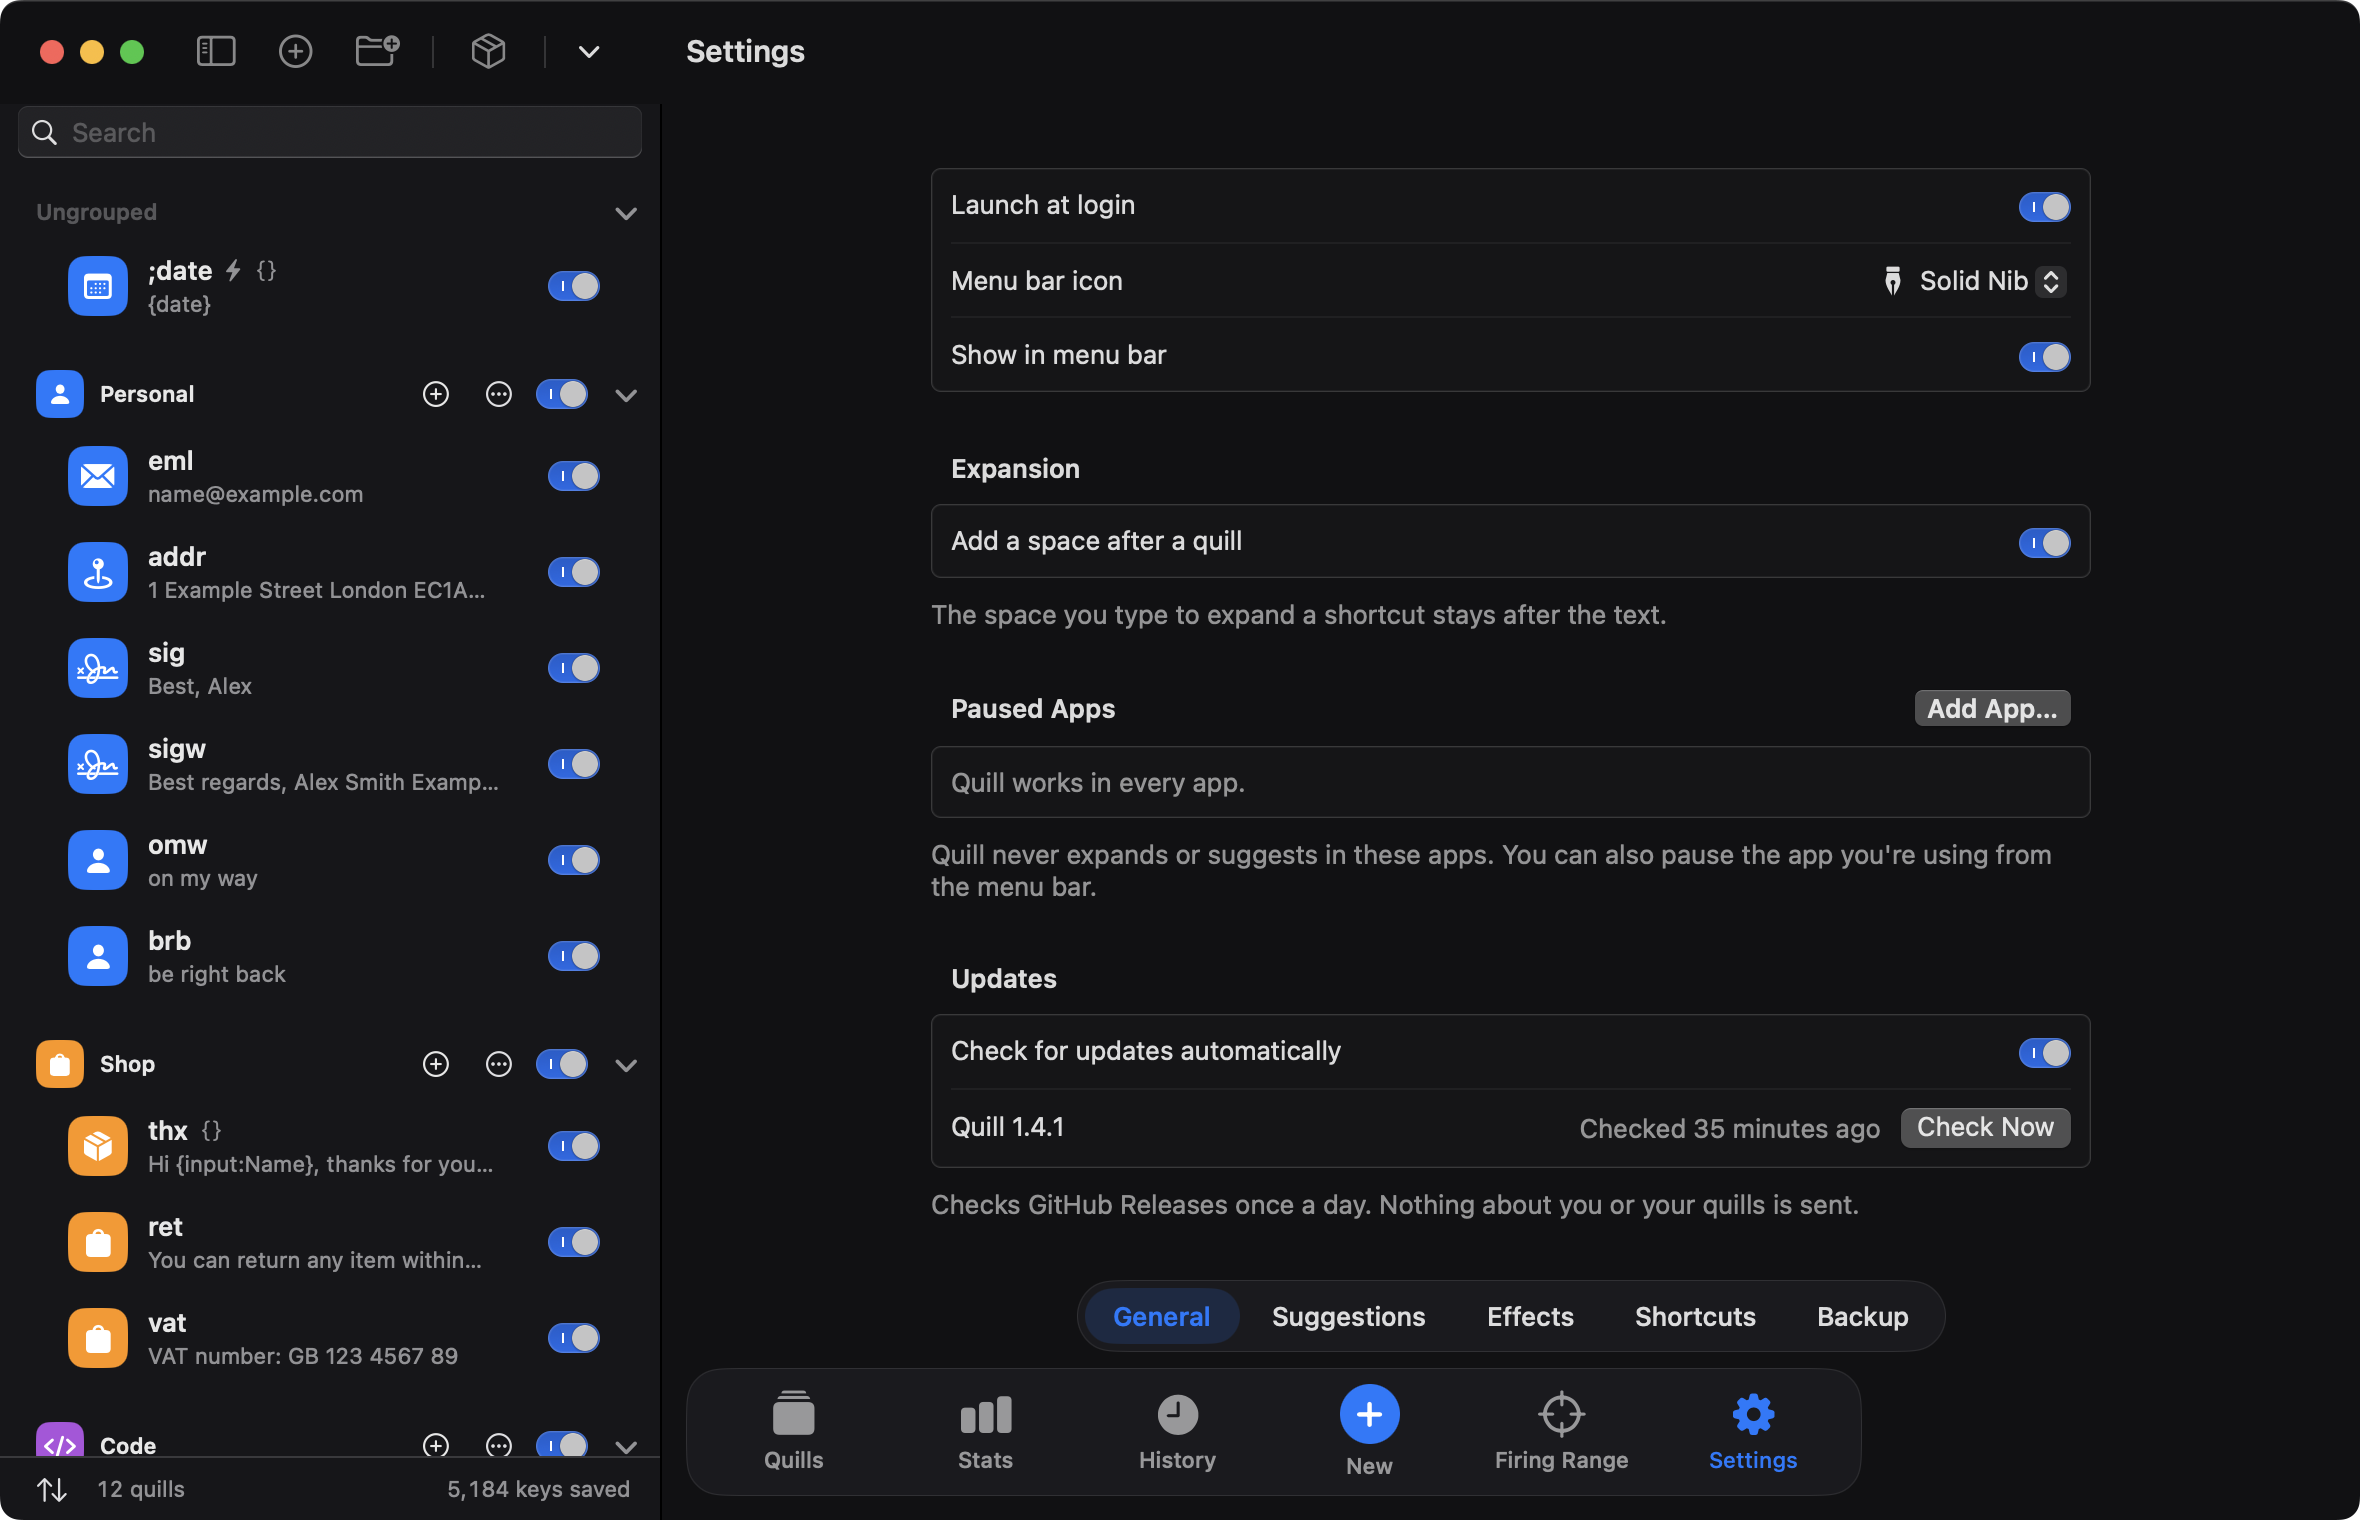
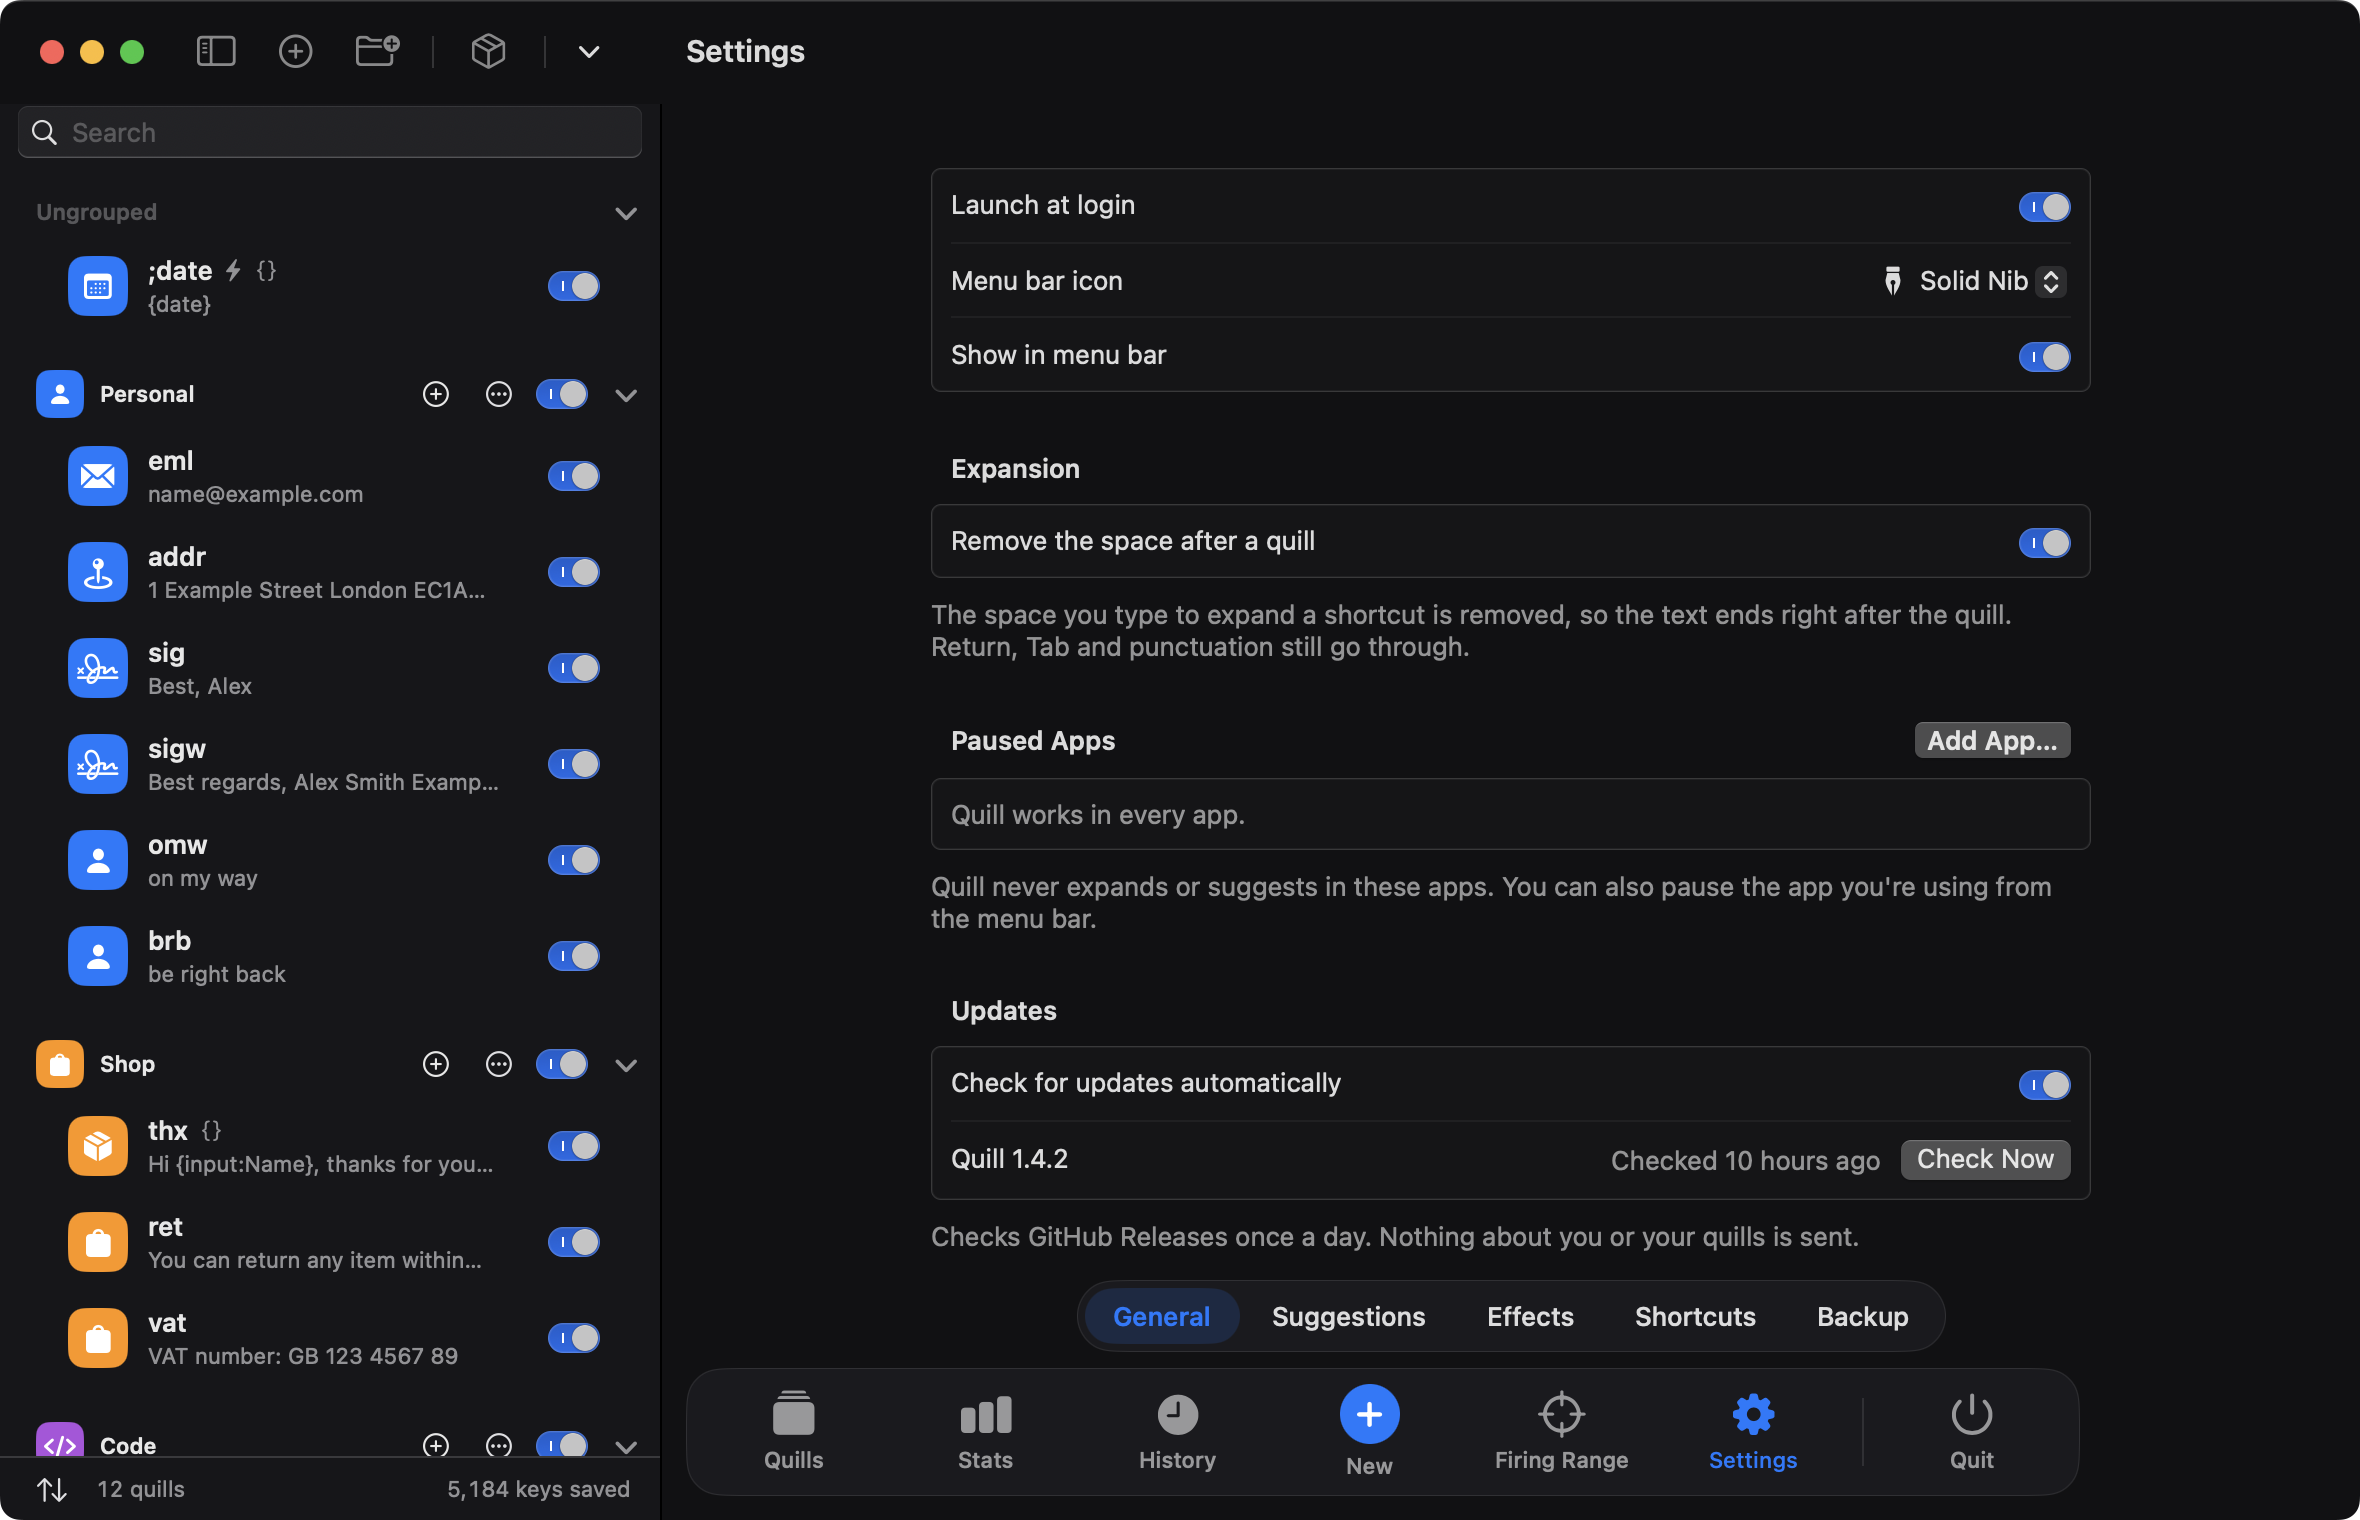
Quill 1.4.2: version, README and screenshots

Changed region(s): [[0.3712, 0.4638, 0.897, 0.8349], [0.4021, 0.402, 0.897, 0.5257], [0.4021, 0.3401, 0.5568, 0.3711]]

diff --git a/Quill/App/QuillApp.swift b/Quill/App/QuillApp.swift
@@ -102,6 +102,12 @@ private struct MenuBarLabel: View {
                 if let pick = snippets.first(where: { $0.trigger == "thx" || $0.trigger == "eAD" }) ?? snippets.first {
                     state.selection = [.snippet(pick.id)]
                 }
+            case "editquill":
+                openWindow(id: WindowID.library)
+                if let quill = state.store.snippets.first(where: { $0.trigger == "thx" }) ?? state.store.snippets.first {
+                    state.store.update(quill.id) { $0.notes = "Order confirmation for shop customers" }
+                    DispatchQueue.main.asyncAfter(deadline: .now() + 0.5) { state.appearanceTarget = .snippet(quill.id) }
+                }
             case "appearance":
                 openWindow(id: WindowID.library)
                 if let group = state.store.groups.first {

diff --git a/README.md b/README.md
@@ -37,13 +37,15 @@ The most useful first:
 - **On and off in place.** Every quill and group has its own switch in the sidebar, and Quill itself turns off or pauses from the menu bar (<kbd>⇧</kbd> <kbd>⌘</kbd> <kbd>P</kbd>).
 - **Menu bar panel.** Search your quills, filter by group, switch them on and off, or click one to type it where you were typing. A tab bar along the bottom jumps to any page, or quits Quill.
 - **Firing Range.** A practice page where your quills fire for real, with a clickable cheat sheet, a hit counter and an effect to try. Practice never counts towards your stats.
-- **Groups, icons and colours.** Collapsible groups, 126 SF Symbols or any emoji, the system colours and your own saved colours, set in one sheet.
+- **One Edit sheet.** Shortcut, text, notes, group, colour and icon for any quill in one place: right-click › Edit…, double-click, or New. Search hundreds of SF Symbols or pick any emoji, with the system colours and your own saved colours.
+- **Notes on every quill.** Jot down what a quill is for under its title; searches match notes too.
+- **Collapsible groups.** Each with its own icon, colour and on/off switch.
 - **Drag to reorder.** Rearrange quills, move them between groups and reorder groups by dragging.
 - **Bring your quills.** Import your macOS Text Replacements, or add a starter pack: emoji shortcodes (`:fire:` → 🔥), typo fixes (`teh` → `the`) and date formats (`;dmy` → `18/11/2026`).
-- **Fine control.** Limit a quill to certain apps, pause Quill in an app, match capitals (`EML` → ALL CAPS), keep or drop the space after an expansion, and press Delete straight after one to undo it.
+- **Fine control.** Limit a quill to certain apps, pause Quill in an app, match capitals (`EML` → ALL CAPS), drop the space after an expansion (the default) or keep it, and press Delete straight after one to undo it.
 - **Stats and History.** Keys and time saved, your streak, busiest hours, top apps and quills, a Tidy Up list, and a searchable log of recent expansions.
-- **13 effects.** Pop Badge, Typewriter, Highlight, Ink Underline, Confetti, Sparkle, Cyber and more, drawn over the text and respecting Reduce Motion.
-- **One window.** Your quills stay in the sidebar, and a floating tab bar switches the right-hand side between the editor, Stats, History, the Firing Range and Settings.
+- **13 effects, combinable.** Pop Badge, Typewriter, Highlight, Ink Underline, Confetti, Sparkle, Cyber and more, drawn over the text and respecting Reduce Motion. Choose several and they play together.
+- **One window.** Your quills stay in the sidebar, and a floating tab bar switches the right-hand side between the editor, Stats, History, the Firing Range and Settings, with New and Quit.
 - **Keyboard first.** <kbd>⌘</kbd> <kbd>K</kbd> command palette, a global search hotkey, `quill://` links to any page, and Shortcuts app actions (Insert Quill, Get Quill Text, Add Quill, Turn Quill On/Off).
 - **Private and local.** One JSON file on your Mac with daily backups and JSON import and export. Password fields are never seen. The only network request is a daily update check against GitHub Releases.
 
@@ -61,9 +63,9 @@ The most useful first:
 
 ## Screenshots
 
-| Quills and editor | Icon and Colour |
+| Quills and editor | Edit sheet |
 | --- | --- |
-| ![The sidebar with collapsible groups and on/off switches, and the editor open for thx](docs/screenshots/snippets.png) | ![The Icon and Colour sheet: name, system colours, custom colour and a grid of icons](docs/screenshots/appearance.png) |
+| ![The sidebar with collapsible groups and on/off switches, and the editor open for thx](docs/screenshots/snippets.png) | ![The Edit sheet: shortcut, group, text, notes, colours and a searchable icon browser](docs/screenshots/appearance.png) |
 
 | Stats | Firing Range |
 | --- | --- |
@@ -80,7 +82,7 @@ The most useful first:
 ## How to use it
 
 1. Open Quill and allow Accessibility access.
-2. Click **New** in the tab bar, type a shortcut such as `eml`, pick a colour and icon, then type the text it should become.
+2. Click **New** in the tab bar, type a shortcut such as `eml` and the text it should become, then pick a colour and icon.
 3. Type `eml` followed by a space in any app.
 
 | Shortcut | Action |
@@ -154,13 +156,13 @@ xcodebuild -project Quill.xcodeproj -scheme Quill -configuration Debug \
 xcodebuild test -project Quill.xcodeproj -scheme Quill -destination 'platform=macOS' -derivedDataPath build.noindex
 ```
 
-Runs the unit tests (`QuillTests`: tokens, case matching, store, moves and ordering, colours, stats, history filters, pages and links, the engine self-test) and the UI tests (`QuillUITests`: the tab bar, switches, collapsing, drag to reorder, Icon and Colour, the editor, search, Settings, the Firing Range and the welcome tour). The UI tests drive the mouse and keyboard for about two minutes. Both use the in-memory demo library, never your real quills, and Debug builds use their own bundle ID (`dev.quill.Quill.debug`), so testing doesn't touch the installed app's settings.
+Runs the unit tests (`QuillTests`: tokens, case matching, store, moves and ordering, colours, stats, history filters, pages and links, the engine self-test) and the UI tests (`QuillUITests`: the tab bar, switches, collapsing, drag to reorder, the Edit sheet, the editor, search, Settings, the Firing Range and the welcome tour). The UI tests drive the mouse and keyboard for about three minutes. Both use the in-memory demo library, never your real quills, and Debug builds use their own bundle ID (`dev.quill.Quill.debug`), so testing doesn't touch the installed app's settings.
 
 Debug-only launch arguments:
 
 - `-QuillSelfTest`: engine and model self-test.
 - `-QuillDemoData`: in-memory sample library, never saved.
-- `-QuillDemo <view>`: opens `library`, `stats`, `history`, `range`, `editor`, `appearance`, `newsnippet`, `panel`, `palette`, `welcome` (with `-QuillWelcomeStep 0`–`3`), a settings pane, `bubble`, `fillin`, or plays an effect by name.
+- `-QuillDemo <view>`: opens `library`, `stats`, `history`, `range`, `editor`, `editquill`, `appearance`, `newsnippet`, `panel`, `palette`, `welcome` (with `-QuillWelcomeStep 0`–`3`), a settings pane, `bubble`, `fillin`, or plays an effect by name.
 - `-QuillDemo stage:<scene>`: plays a scripted scene for the README recordings: `hero`, `bubble`, `fillin`, `effects`, `panel` or `tour`. It prints the screen area to record.
 - `-QuillUpdateCheck`: one live update check, then quits. `-QuillFakeUpdate` simulates an available update.
 
